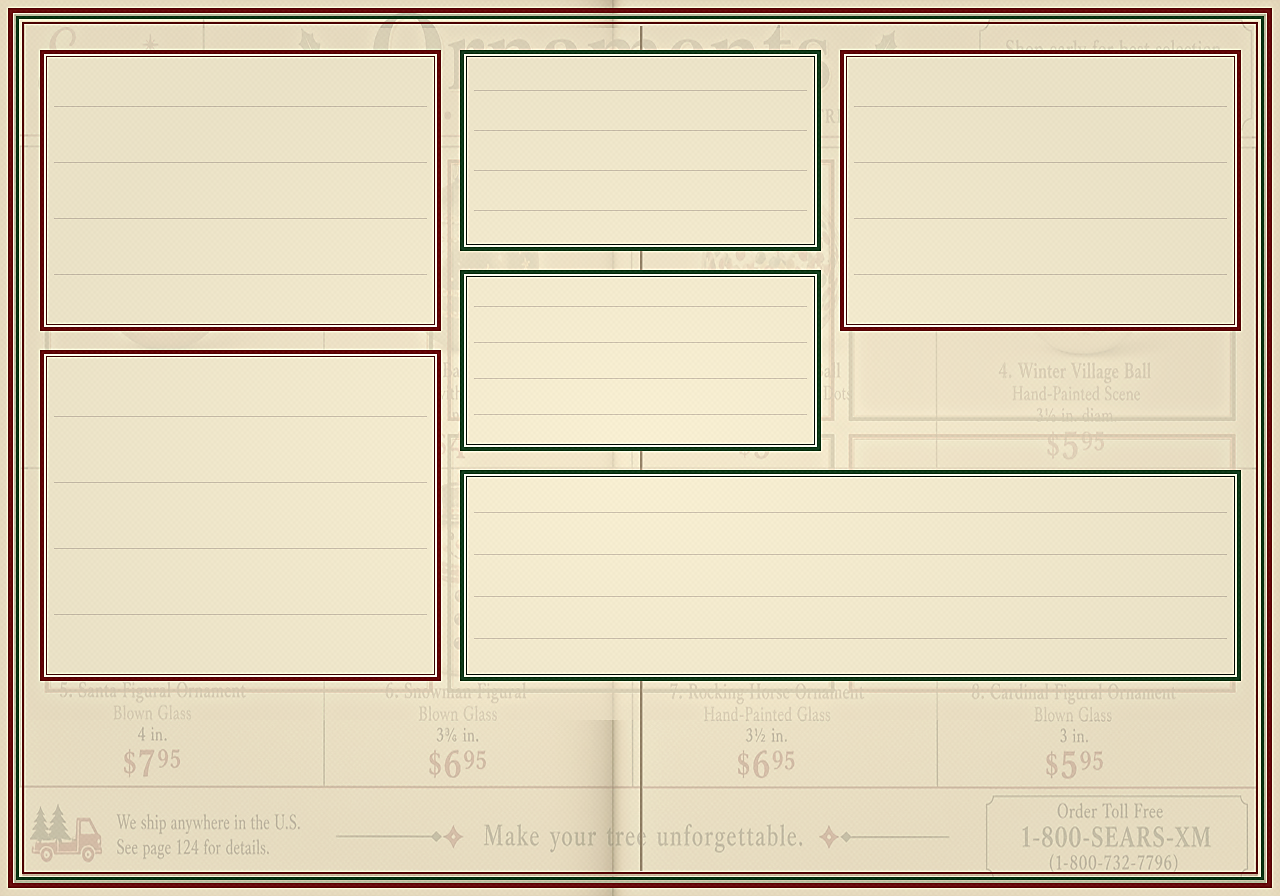
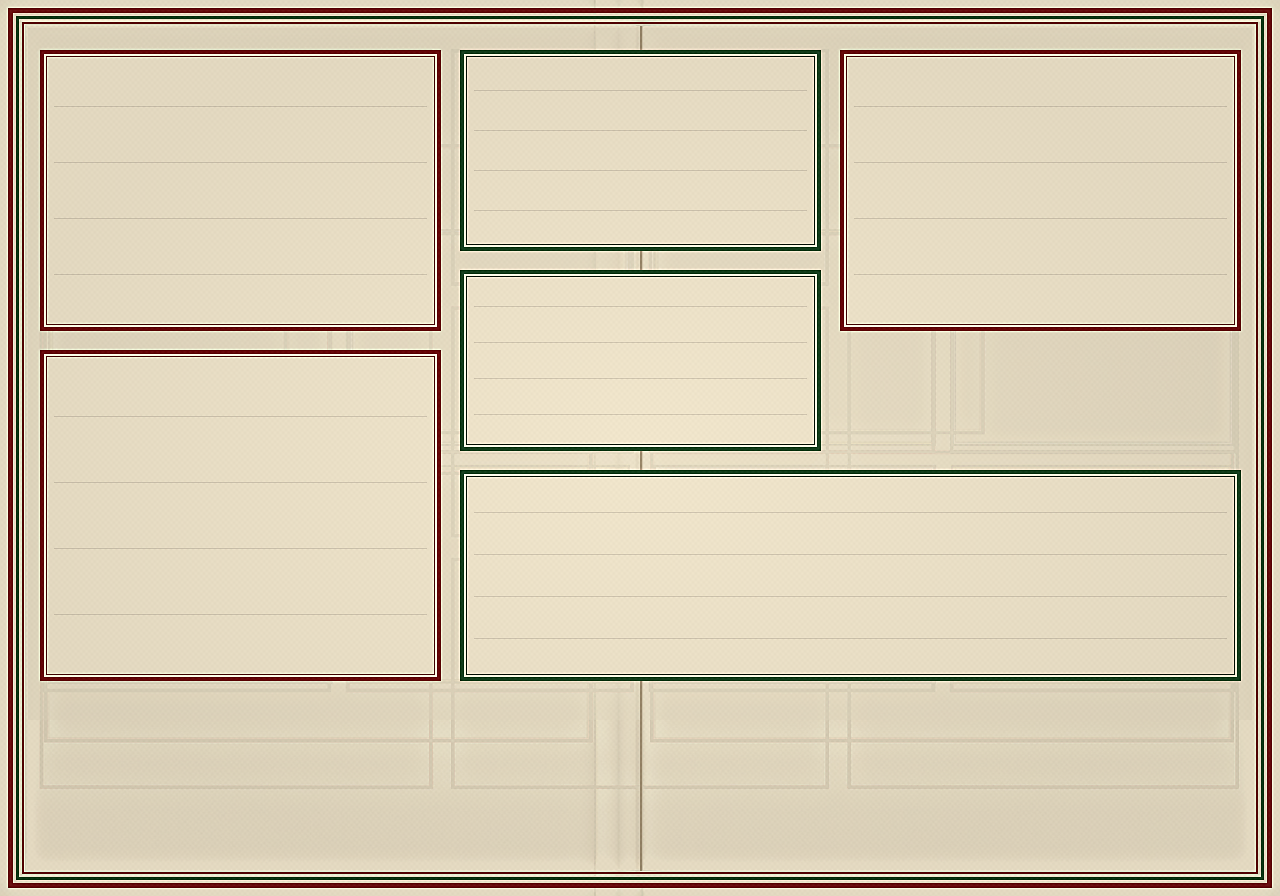
Purge ghost Sears text from Christmas Catalog backgrounds
Rebuild page art from clean aged paper only so no filled-catalog
reference bleeds through, and cache-bust background URLs on restore.

diff --git a/scripts/db/build_christmas_catalog_backgrounds.py b/scripts/db/build_christmas_catalog_backgrounds.py
@@ -111,33 +111,44 @@ CREAM = (238, 226, 200)
 
 
 def load_ai(page: int) -> Image.Image | None:
-    name = AI_SOURCES.get(page)
-    ai = None
-    if name:
-        for path in (ARTIFACT_DIR / name, GEN_DIR / name):
-            if path.exists():
-                ai = Image.open(path).convert("RGB").resize((W, H), Image.Resampling.LANCZOS)
-                break
+    """
+    Return clean aged catalog paper only.
+
+    Do NOT blend filled Sears-style references — those reintroduce ghost text.
+    Prefer an averaged wash of empty AI page refs when available; otherwise
+    synthesize paper.
+    """
     rich_path = GEN_DIR / "rich-paper.png"
     if not rich_path.exists():
-        sears = ROOT / ".local/state/catalog-refs/sears-style-ref-p02.png"
-        if sears.exists():
-            src = Image.open(sears).convert("RGB").resize((W, H), Image.Resampling.LANCZOS)
-            arr = np.asarray(src).astype(np.float32)
-            gray = arr.mean(2, keepdims=True)
+        refs: list[Image.Image] = []
+        for name in (
+            "catalog-p02-ornaments-v2.png",
+            "catalog-p04-lights-v2.png",
+            "catalog-p01-cover-v2.png",
+            "catalog-p08-kitchen-v2.png",
+        ):
+            for base in (ARTIFACT_DIR, GEN_DIR):
+                path = base / name
+                if path.exists():
+                    refs.append(Image.open(path).convert("RGB").resize((W, H), Image.Resampling.LANCZOS))
+                    break
+        if refs:
+            stack = np.stack([np.asarray(r).astype(np.float32) for r in refs], axis=0).mean(0)
             paper = np.array(CREAM, dtype=np.float32)
-            span = float(gray.max() - gray.min()) or 1.0
-            norm = (gray - gray.min()) / span
-            grain = paper * (0.82 + 0.28 * norm) + (arr - gray) * 0.15
-            Image.fromarray(np.clip(grain, 0, 255).astype(np.uint8)).save(rich_path)
+            lum = stack.mean(2)
+            blur = np.asarray(
+                Image.fromarray(np.clip(stack, 0, 255).astype(np.uint8)).filter(ImageFilter.GaussianBlur(10))
+            ).astype(np.float32)
+            grain = stack - blur
+            clean = paper + np.clip(grain, -14, 14) * 0.7
+            dark = np.clip((185 - lum) / 90.0, 0, 1)[..., None]
+            clean = clean * (1 - dark * 0.95) + paper * (dark * 0.95)
+            Image.fromarray(np.clip(clean, 0, 255).astype(np.uint8)).save(rich_path)
+        else:
+            synthesize_paper(page).save(rich_path)
     if rich_path.exists():
-        rich = Image.open(rich_path).convert("RGB").resize((W, H), Image.Resampling.LANCZOS)
-        if ai is None:
-            return rich
-        a = np.asarray(ai).astype(np.float32)
-        r = np.asarray(rich).astype(np.float32)
-        return Image.fromarray(np.clip(a * 0.35 + r * 0.65, 0, 255).astype(np.uint8), "RGB")
-    return ai
+        return Image.open(rich_path).convert("RGB").resize((W, H), Image.Resampling.LANCZOS)
+    return None
 
 
 def paper_color_from(im: Image.Image) -> np.ndarray:

diff --git a/scripts/db/restore_christmas_catalog_pages.php b/scripts/db/restore_christmas_catalog_pages.php
@@ -384,7 +384,7 @@ try {
         $room = $page['room'];
         $title = $page['title'];
         $file = $page['file'];
-        $bgUrl = ImagePathNormalizer::normalizeBackgroundUrl(wf_bg_db_ref($file, 'webp'));
+        $bgUrl = ImagePathNormalizer::normalizeBackgroundUrl(wf_bg_db_ref($file, 'webp')) . '?v=1950clean';
         $displayOrder = 70 + $page['page'];
 
         wf_upsert_room_settings($room, $title, $bgUrl, $displayOrder);
